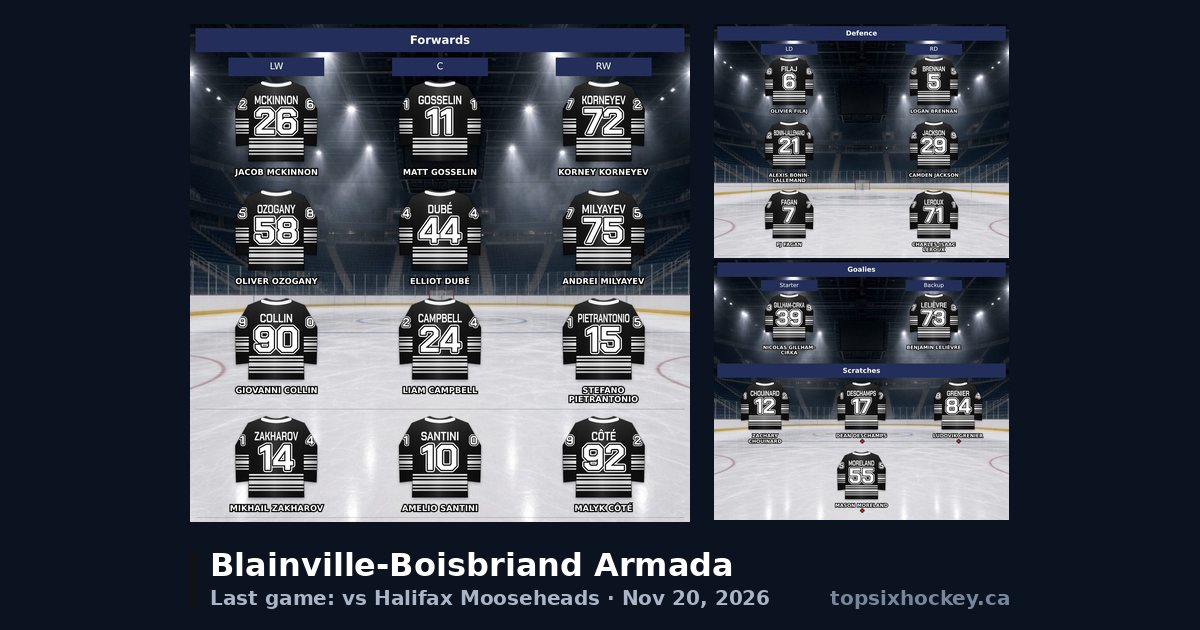
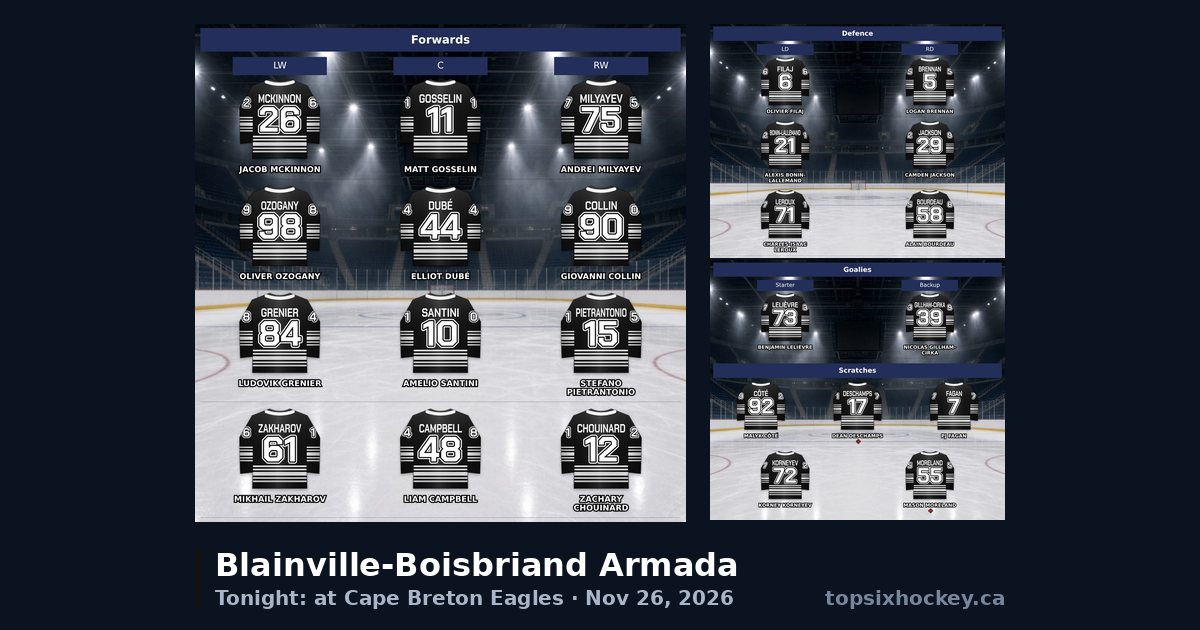
Update team share pages

diff --git a/qmjhl/blainville-boisbriand-armada/index.html b/qmjhl/blainville-boisbriand-armada/index.html
@@ -2,21 +2,21 @@
 <html lang="en"><head><meta charset="utf-8">
 <title>Blainville-Boisbriand Armada Line Combinations | Top Six Hockey</title>
 <meta name="viewport" content="width=device-width, initial-scale=1">
-<meta name="description" content="Blainville-Boisbriand Armada lines: forwards, defence pairings, goalies and scratches. Last game: vs Halifax Mooseheads · Nov 20, 2026.">
+<meta name="description" content="Blainville-Boisbriand Armada lines: forwards, defence pairings, goalies and scratches. Tonight: at Cape Breton Eagles · Nov 26, 2026.">
 <link rel="canonical" href="https://topsixhockey.ca/qmjhl/blainville-boisbriand-armada/">
 <meta property="og:type" content="website">
 <meta property="og:site_name" content="Top Six Hockey">
 <meta property="og:title" content="Blainville-Boisbriand Armada lineup | Top Six Hockey">
-<meta property="og:description" content="Blainville-Boisbriand Armada lines: forwards, defence pairings, goalies and scratches. Last game: vs Halifax Mooseheads · Nov 20, 2026.">
+<meta property="og:description" content="Blainville-Boisbriand Armada lines: forwards, defence pairings, goalies and scratches. Tonight: at Cape Breton Eagles · Nov 26, 2026.">
 <meta property="og:url" content="https://topsixhockey.ca/qmjhl/blainville-boisbriand-armada/">
-<meta property="og:image" content="https://topsixhockey.ca/og/qmjhl-blainville-boisbriand-armada.jpg?v=e792f0fdd9">
+<meta property="og:image" content="https://topsixhockey.ca/og/qmjhl-blainville-boisbriand-armada.jpg?v=ebc93ba83b">
 <meta property="og:image:width" content="1200">
 <meta property="og:image:height" content="630">
 <meta name="twitter:card" content="summary_large_image">
 <meta name="twitter:site" content="@TopSixHockey6">
 <meta name="twitter:title" content="Blainville-Boisbriand Armada lineup | Top Six Hockey">
-<meta name="twitter:description" content="Blainville-Boisbriand Armada lines: forwards, defence pairings, goalies and scratches. Last game: vs Halifax Mooseheads · Nov 20, 2026.">
-<meta name="twitter:image" content="https://topsixhockey.ca/og/qmjhl-blainville-boisbriand-armada.jpg?v=e792f0fdd9">
+<meta name="twitter:description" content="Blainville-Boisbriand Armada lines: forwards, defence pairings, goalies and scratches. Tonight: at Cape Breton Eagles · Nov 26, 2026.">
+<meta name="twitter:image" content="https://topsixhockey.ca/og/qmjhl-blainville-boisbriand-armada.jpg?v=ebc93ba83b">
 <script>location.replace("/?team=qmjhl_blainville");</script>
 </head><body style="margin:0;background:#0b1220;color:#fff;font:16px system-ui,sans-serif;display:flex;min-height:100vh;align-items:center;justify-content:center">
 <p>Opening the Blainville-Boisbriand Armada lineup&hellip; <a style="color:#f2b705" href="/?team=qmjhl_blainville">Continue</a></p>

diff --git a/qmjhl/cape-breton-eagles/index.html b/qmjhl/cape-breton-eagles/index.html
@@ -2,21 +2,21 @@
 <html lang="en"><head><meta charset="utf-8">
 <title>Cape Breton Eagles Line Combinations | Top Six Hockey</title>
 <meta name="viewport" content="width=device-width, initial-scale=1">
-<meta name="description" content="Cape Breton Eagles lines: forwards, defence pairings, goalies and scratches. Last game: at Chicoutimi Saguenéens · Nov 21, 2026.">
+<meta name="description" content="Cape Breton Eagles lines: forwards, defence pairings, goalies and scratches. Tonight: vs Blainville-Boisbriand Armada · Nov 26, 2026.">
 <link rel="canonical" href="https://topsixhockey.ca/qmjhl/cape-breton-eagles/">
 <meta property="og:type" content="website">
 <meta property="og:site_name" content="Top Six Hockey">
 <meta property="og:title" content="Cape Breton Eagles lineup | Top Six Hockey">
-<meta property="og:description" content="Cape Breton Eagles lines: forwards, defence pairings, goalies and scratches. Last game: at Chicoutimi Saguenéens · Nov 21, 2026.">
+<meta property="og:description" content="Cape Breton Eagles lines: forwards, defence pairings, goalies and scratches. Tonight: vs Blainville-Boisbriand Armada · Nov 26, 2026.">
 <meta property="og:url" content="https://topsixhockey.ca/qmjhl/cape-breton-eagles/">
-<meta property="og:image" content="https://topsixhockey.ca/og/qmjhl-cape-breton-eagles.jpg?v=9b28d72fd9">
+<meta property="og:image" content="https://topsixhockey.ca/og/qmjhl-cape-breton-eagles.jpg?v=57585e0a77">
 <meta property="og:image:width" content="1200">
 <meta property="og:image:height" content="630">
 <meta name="twitter:card" content="summary_large_image">
 <meta name="twitter:site" content="@TopSixHockey6">
 <meta name="twitter:title" content="Cape Breton Eagles lineup | Top Six Hockey">
-<meta name="twitter:description" content="Cape Breton Eagles lines: forwards, defence pairings, goalies and scratches. Last game: at Chicoutimi Saguenéens · Nov 21, 2026.">
-<meta name="twitter:image" content="https://topsixhockey.ca/og/qmjhl-cape-breton-eagles.jpg?v=9b28d72fd9">
+<meta name="twitter:description" content="Cape Breton Eagles lines: forwards, defence pairings, goalies and scratches. Tonight: vs Blainville-Boisbriand Armada · Nov 26, 2026.">
+<meta name="twitter:image" content="https://topsixhockey.ca/og/qmjhl-cape-breton-eagles.jpg?v=57585e0a77">
 <script>location.replace("/?team=qmjhl_capbreton");</script>
 </head><body style="margin:0;background:#0b1220;color:#fff;font:16px system-ui,sans-serif;display:flex;min-height:100vh;align-items:center;justify-content:center">
 <p>Opening the Cape Breton Eagles lineup&hellip; <a style="color:#f2b705" href="/?team=qmjhl_capbreton">Continue</a></p>
